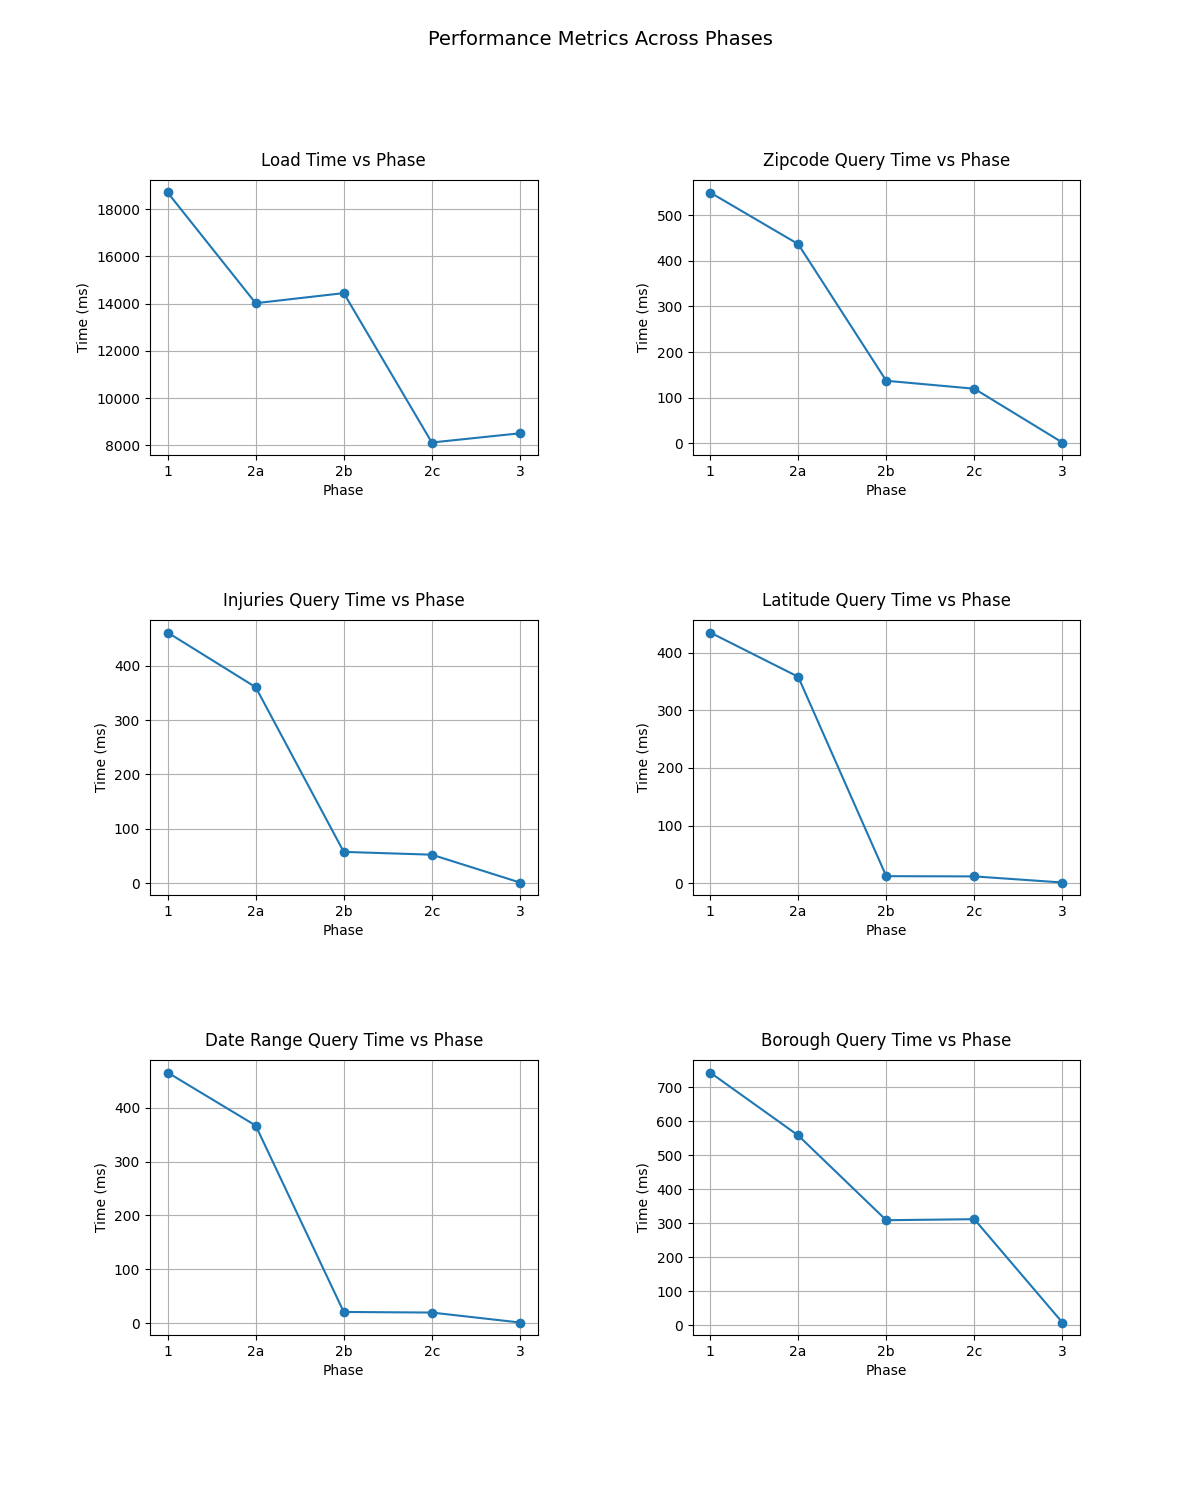
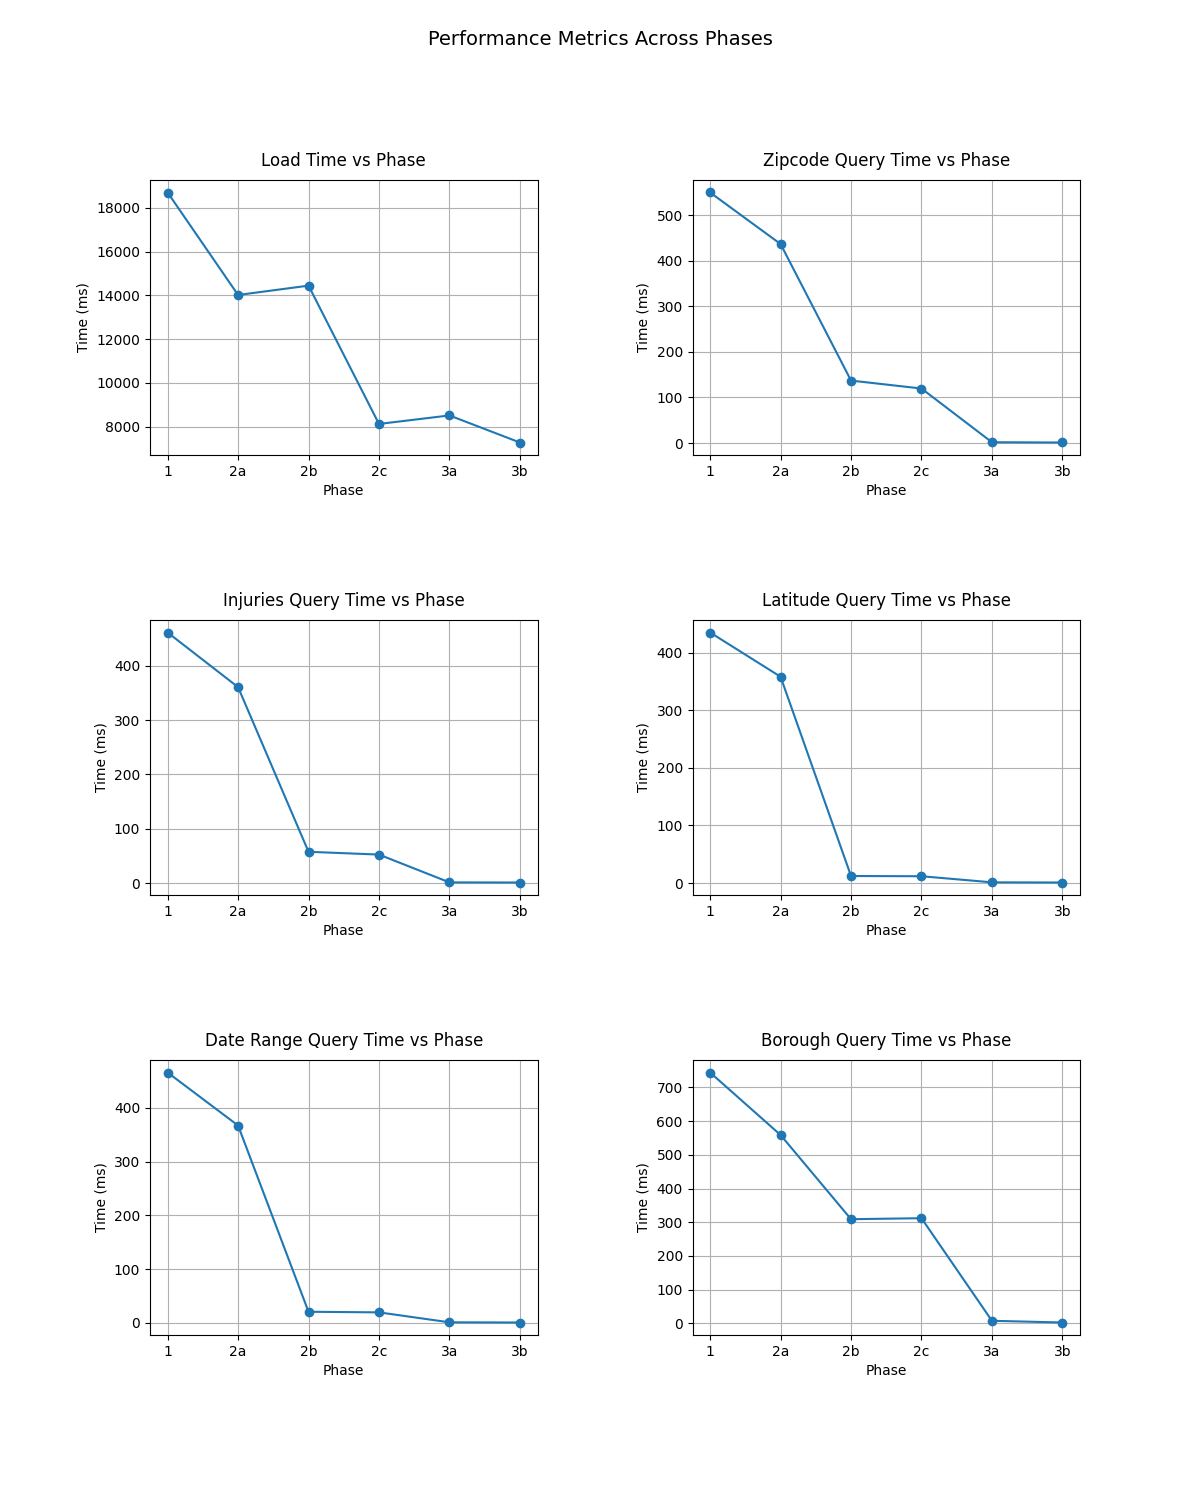
Updated python scripts

diff --git a/phase-3/Main.cpp b/phase-3/Main.cpp
@@ -1,24 +1,24 @@
 #include <iostream>
 #include <chrono>
 #include <vector>
-#include <sys/resource.h>
+//#include <sys/resource.h>
 #include "CollisionDataset.h"
 
 using namespace std;
 
-void printMemoryUsage() {
-    struct rusage usage;
-    if (getrusage(RUSAGE_SELF, &usage) == 0) {
-        #ifdef __APPLE__  // MacOS returns bytes
-            double memoryMB = usage.ru_maxrss / (1024.0 * 1024.0);  // Convert bytes to MB
-        #else
-            double memoryMB = usage.ru_maxrss / 1024.0;  // Convert KB to MB (Linux)
-        #endif
-        cout << "Memory Usage: " << memoryMB << " MB" << endl;
-    } else {
-        cerr << "Failed to get memory usage." << endl;
-    }
-}
+// void printMemoryUsage() {
+//     struct rusage usage;
+//     if (getrusage(RUSAGE_SELF, &usage) == 0) {
+//         #ifdef __APPLE__  // MacOS returns bytes
+//             double memoryMB = usage.ru_maxrss / (1024.0 * 1024.0);  // Convert bytes to MB
+//         #else
+//             double memoryMB = usage.ru_maxrss / 1024.0;  // Convert KB to MB (Linux)
+//         #endif
+//         cout << "Memory Usage: " << memoryMB << " MB" << endl;
+//     } else {
+//         cerr << "Failed to get memory usage." << endl;
+//     }
+// }
 
 int main() {
     string file_name = "../data/NYC_MVC.csv";
@@ -73,7 +73,7 @@ int main() {
     cout << collisions_in_borough.size() << " collision records matched for borough " << borough << " in ";
     cout << chrono::duration<double>(end_time_q5 - start_time_q5).count() << " seconds." << endl;
     
-    printMemoryUsage();
+    // printMemoryUsage();
     
     return 0;
 }

diff --git a/process_logs_thread.py b/process_logs_thread.py
@@ -52,8 +52,10 @@ file_mapping = {
     "threads1.txt": "1",
     "threads2.txt": "2",
     "threads4.txt": "4",
-    "threads6.txt": "6",
-    "threads8.txt": "8"
+    "threads8.txt": "8",
+    "threads16.txt": "16",
+    "threads32.txt": "32",
+    "threads64.txt": "64",
 }
 
 mean_metrics = []
@@ -77,7 +79,7 @@ df_metrics = pd.DataFrame(mean_metrics)
 df_metrics.to_csv(data_file, index=False)
 
 # Set the phase column as categorical for correct plotting order
-df_metrics["Thread Count"] = pd.Categorical(df_metrics["Thread Count"], categories=["1", "2", "4", "6", "8"], ordered=True)
+df_metrics["Thread Count"] = pd.Categorical(df_metrics["Thread Count"], categories=["1", "2", "4", "8", "16", "32", "64"], ordered=True)
 
 # Create a figure with 6 subplots (3 rows, 2 columns) for better visualization
 fig, axes = plt.subplots(3, 2, figsize=(12, 15))

diff --git a/process_logs.py b/process_logs.py
@@ -53,7 +53,8 @@ file_mapping = {
     "phase-2a.txt": "2a",
     "phase-2b.txt": "2b",
     "phase-2c.txt": "2c",
-    "phase-3.txt": "3"
+    "phase-3a.txt": "3a",
+    "phase-3b.txt": "3b"
 }
 
 mean_metrics = []
@@ -102,7 +103,7 @@ df_metrics = pd.DataFrame(mean_metrics)
 df_metrics.to_csv(data_file, index=False)
 
 # Set the phase column as categorical for correct plotting order
-df_metrics["Phase"] = pd.Categorical(df_metrics["Phase"], categories=["1", "2a", "2b", "2c", "3"], ordered=True)
+df_metrics["Phase"] = pd.Categorical(df_metrics["Phase"], categories=["1", "2a", "2b", "2c", "3a", "3b"], ordered=True)
 
 # Create a figure with 6 subplots (3 rows, 2 columns) for better visualization
 fig, axes = plt.subplots(3, 2, figsize=(12, 15))
